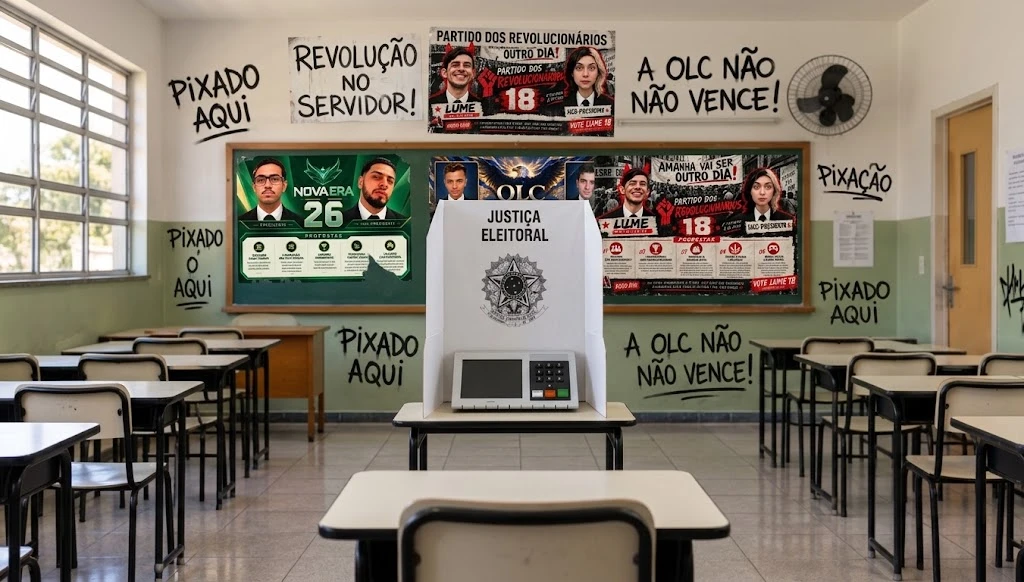
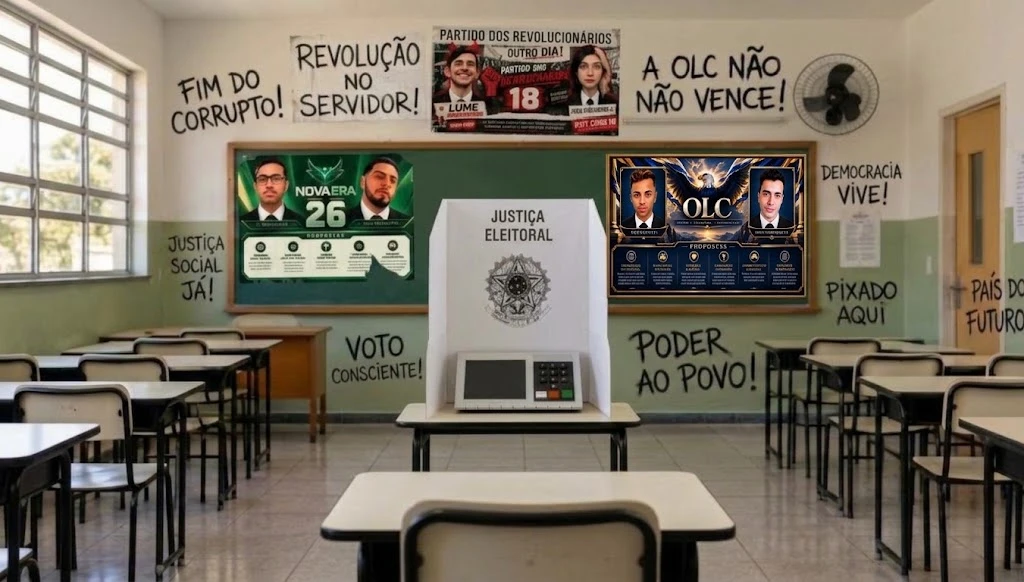
Troca a foto de fundo da sala

diff --git a/index.html b/index.html
@@ -707,7 +707,7 @@ async function iniciar(){
 // ---------- cena: sala de aula com a urna na cabine ----------
 (function(){
   const IMG = {w:1024, h:582};          // tamanho da foto sala.webp
-  const U = {x:449, b:411, w:129};      // onde fica a urna na foto (px da imagem)
+  const U = {x:453, b:411, w:129};      // onde fica a urna na foto (px da imagem)
   const BOOTH_W = 190;                  // largura da cabine na foto
   const DUR = 1300;
   const cena = document.getElementById("cena"), mundo = document.getElementById("mundo"),
